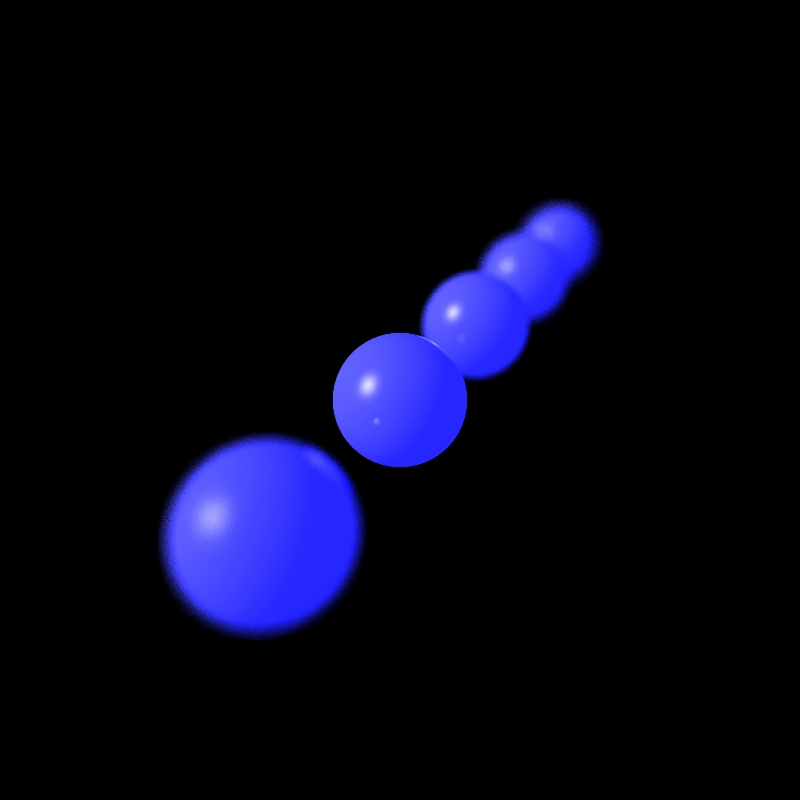
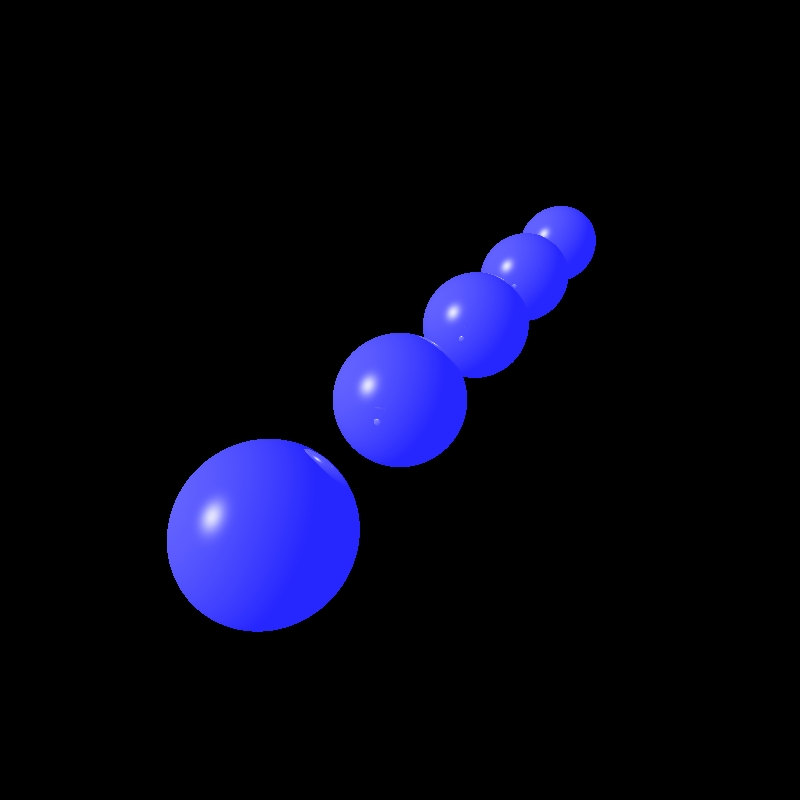
MP2 map...

diff --git a/src/elements/Box.java b/src/elements/Box.java
@@ -1,0 +1,112 @@
+package elements;
+
+import geometries.Geometries;
+import geometries.Geometry;
+import geometries.Intersectable;
+
+import java.util.HashMap;
+import java.util.List;
+import java.util.Map;
+
+/**
+ * class that implement a grid over all the scene
+ * and divide it to voxels
+ */
+public class Box {
+    /**
+     * number of voxels in width / height / depth
+     */
+    private int _density = 1;
+    // 3DDDA algorithm to improve rendering performance
+    private double _minX, _minY, _minZ;
+    private double _maxX, _maxY, _maxZ;
+    private Map<Voxel, Geometries> _voxelGeometriesMap;
+
+    /**
+     * constructor that create a grid over all the scene
+     * by set min and max of x y and z axis of the grid
+     *
+     * @param geometries the geometries in the scene
+     * @param density    number of voxels in width / height / depth
+     */
+    public Box(Geometries geometries, int density) {
+        _density = density;
+        List<Intersectable> geometriesList = geometries.getGeometries();
+        Geometry geometry = (Geometry) geometriesList.get(0);
+        _maxX = geometry.getMaxX();
+        _minX = geometry.getMinX();
+        _maxY = geometry.getMaxY();
+        _minY = geometry.getMinY();
+        _maxZ = geometry.getMaxZ();
+        _minZ = geometry.getMinZ();
+
+        for (int i = 1; i < geometriesList.size(); i++) {
+            geometry = (Geometry) geometriesList.get(i);
+            if (geometry.getMaxX() > _maxX)
+                _maxX = geometry.getMaxX();
+            if (geometry.getMinX() < _minX)
+                _minX = geometry.getMinX();
+            if (geometry.getMaxY() > _maxY)
+                _maxY = geometry.getMaxY();
+            if (geometry.getMinY() < _minY)
+                _minY = geometry.getMinY();
+            if (geometry.getMaxZ() > _maxZ)
+                _maxZ = geometry.getMaxZ();
+            if (geometry.getMinZ() < _minZ)
+                _minZ = geometry.getMinZ();
+        }
+        double cellSizeX = (_maxX - _minX) / _density;
+        double cellSizeY = (_maxY - _minY) / _density;
+        double cellSizeZ = (_maxZ - _minZ) / _density;
+        _voxelGeometriesMap = new HashMap<>();
+        for (Intersectable intersectable : geometriesList) {
+            geometry = (Geometry) intersectable;
+            int voxelMinIndexX = (int) ((geometry.getMinX() - _minX) / cellSizeX);
+            int voxelMaxIndexX = (int) ((geometry.getMaxX() - _minX) / cellSizeX);
+            int voxelMinIndexY = (int) ((geometry.getMinY() - _minY) / cellSizeY);
+            int voxelMaxIndexY = (int) ((geometry.getMaxY() - _minY) / cellSizeY);
+            int voxelMinIndexZ = (int) ((geometry.getMinZ() - _minZ) / cellSizeZ);
+            int voxelMaxIndexZ = (int) ((geometry.getMaxZ() - _minZ) / cellSizeZ);
+            for (int i = voxelMinIndexX; i <= voxelMaxIndexX; i++) {
+                for (int j = voxelMinIndexY; j <= voxelMaxIndexY; j++) {
+                    for (int k = voxelMinIndexZ; k <= voxelMaxIndexZ; k++) {
+                        Voxel voxel = new Voxel(i, j, k);
+                        if (_voxelGeometriesMap.containsKey(voxel))
+                            _voxelGeometriesMap.get(voxel).add(geometry);
+                        else
+                            _voxelGeometriesMap.put(voxel, new Geometries(geometry));
+                    }
+                }
+            }
+        }
+    }
+
+    /**
+     * class that implement voxel (piece of the volume)
+     */
+    public class Voxel {
+        private int _x;
+        private int _y;
+        private int _z;
+
+        public Voxel(int indexX, int indexY, int indexZ) {
+            _x = indexX;
+            _y = indexY;
+            _z = indexZ;
+        }
+
+        @Override
+        public boolean equals(Object obj) {
+            if (this == obj) return true;
+            if (obj == null) return false;
+            if (!(obj instanceof Voxel)) return false;
+            Voxel other = (Voxel) obj;
+            return _x == other._x && _y == other._y && _z == other._z;
+        }
+
+        @Override
+        public String toString() {
+            return "Voxel{" + _x + "," + _y + "," + _z + '}';
+        }
+    }
+}

diff --git a/src/renderer/Render.java b/src/renderer/Render.java
@@ -1,7 +1,7 @@
 package renderer;
 
 import elements.Camera;
-import elements.Grid;
+import elements.Box;
 import elements.LightSource;
 import geometries.Intersectable.GeoPoint;
 import primitives.*;
@@ -19,7 +19,7 @@ public class Render {
     private static final double MIN_CALC_COLOR_K = 0.001;
     private ImageWriter _imageWriter;
     private Scene _scene;
-    private Grid _grid;
+    private Box _box;
 
     /**
      * Constructor of Render class, get two parameters - imageWriter and scene
@@ -83,7 +83,7 @@ public class Render {
      * with focus option on or off
      */
     public void renderImage() {
-        _grid = new Grid(_scene.getGeometries(),1);
+        _box = new Box(_scene.getGeometries(),3);
         // scene parameters
         Camera camera = _scene.getCamera();
         Color background = _scene.getBackground();

diff --git a/src/geometries/Sphere.java b/src/geometries/Sphere.java
@@ -26,8 +26,8 @@ public class Sphere extends RadialGeometry {
         // 3DDDA algorithm to improve rendering performance
         _minX = point.getX().get() - radius;
         _maxX = point.getX().get() + radius;
-        _maxY = point.getY().get() - radius;
-        _minY = point.getY().get() + radius;
+        _minY = point.getY().get() - radius;
+        _maxY = point.getY().get() + radius;
         _minZ = point.getZ().get() - radius;
         _maxZ = point.getZ().get() + radius;
     }

diff --git a/src/geometries/Geometries.java b/src/geometries/Geometries.java
@@ -50,6 +50,7 @@ public class Geometries implements Intersectable {
 
     @Override
     public List<GeoPoint> findIntersections(Ray ray, double max) {
+
         List<Intersectable> geometries = _geometries;
         List<GeoPoint> intersectionPoints = null;
         for (Intersectable geometry : geometries) {

diff --git a/src/scene/Scene.java b/src/scene/Scene.java
@@ -2,10 +2,8 @@ package scene;
 
 import elements.AmbientLight;
 import elements.Camera;
-import elements.Grid;
 import elements.LightSource;
 import geometries.Geometries;
-import geometries.Geometry;
 import geometries.Intersectable;
 import primitives.Color;
 
